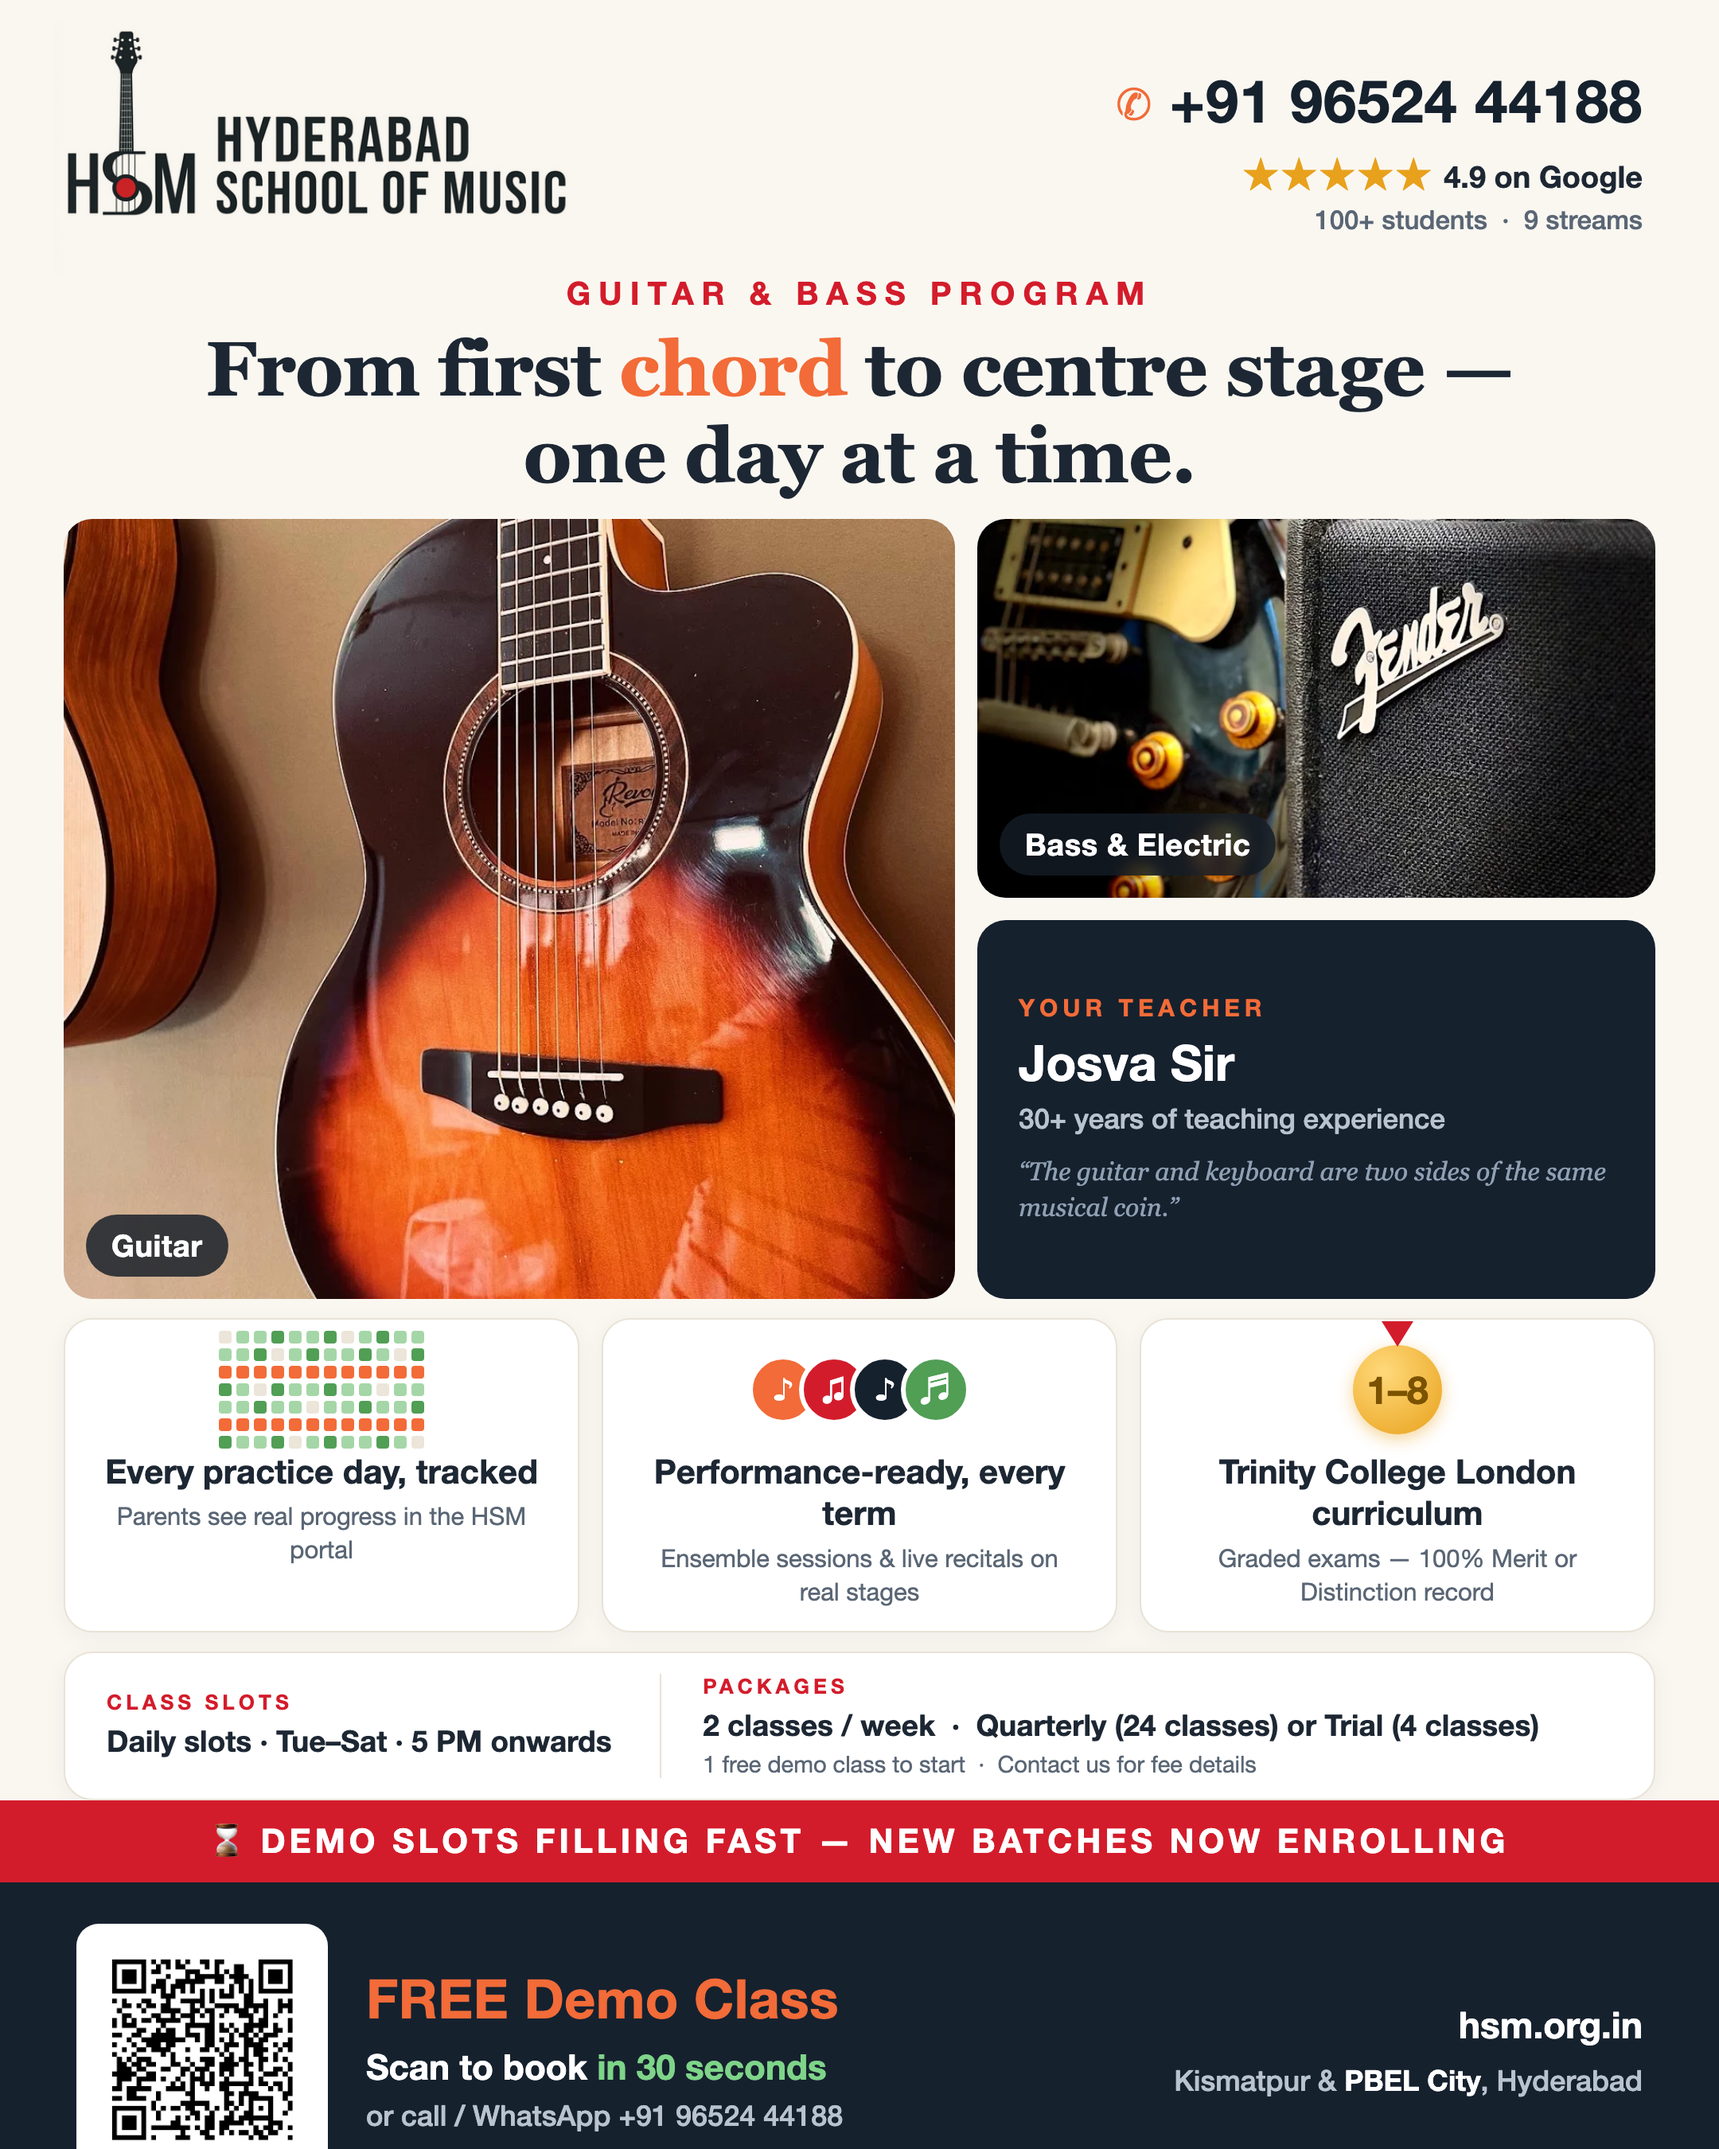
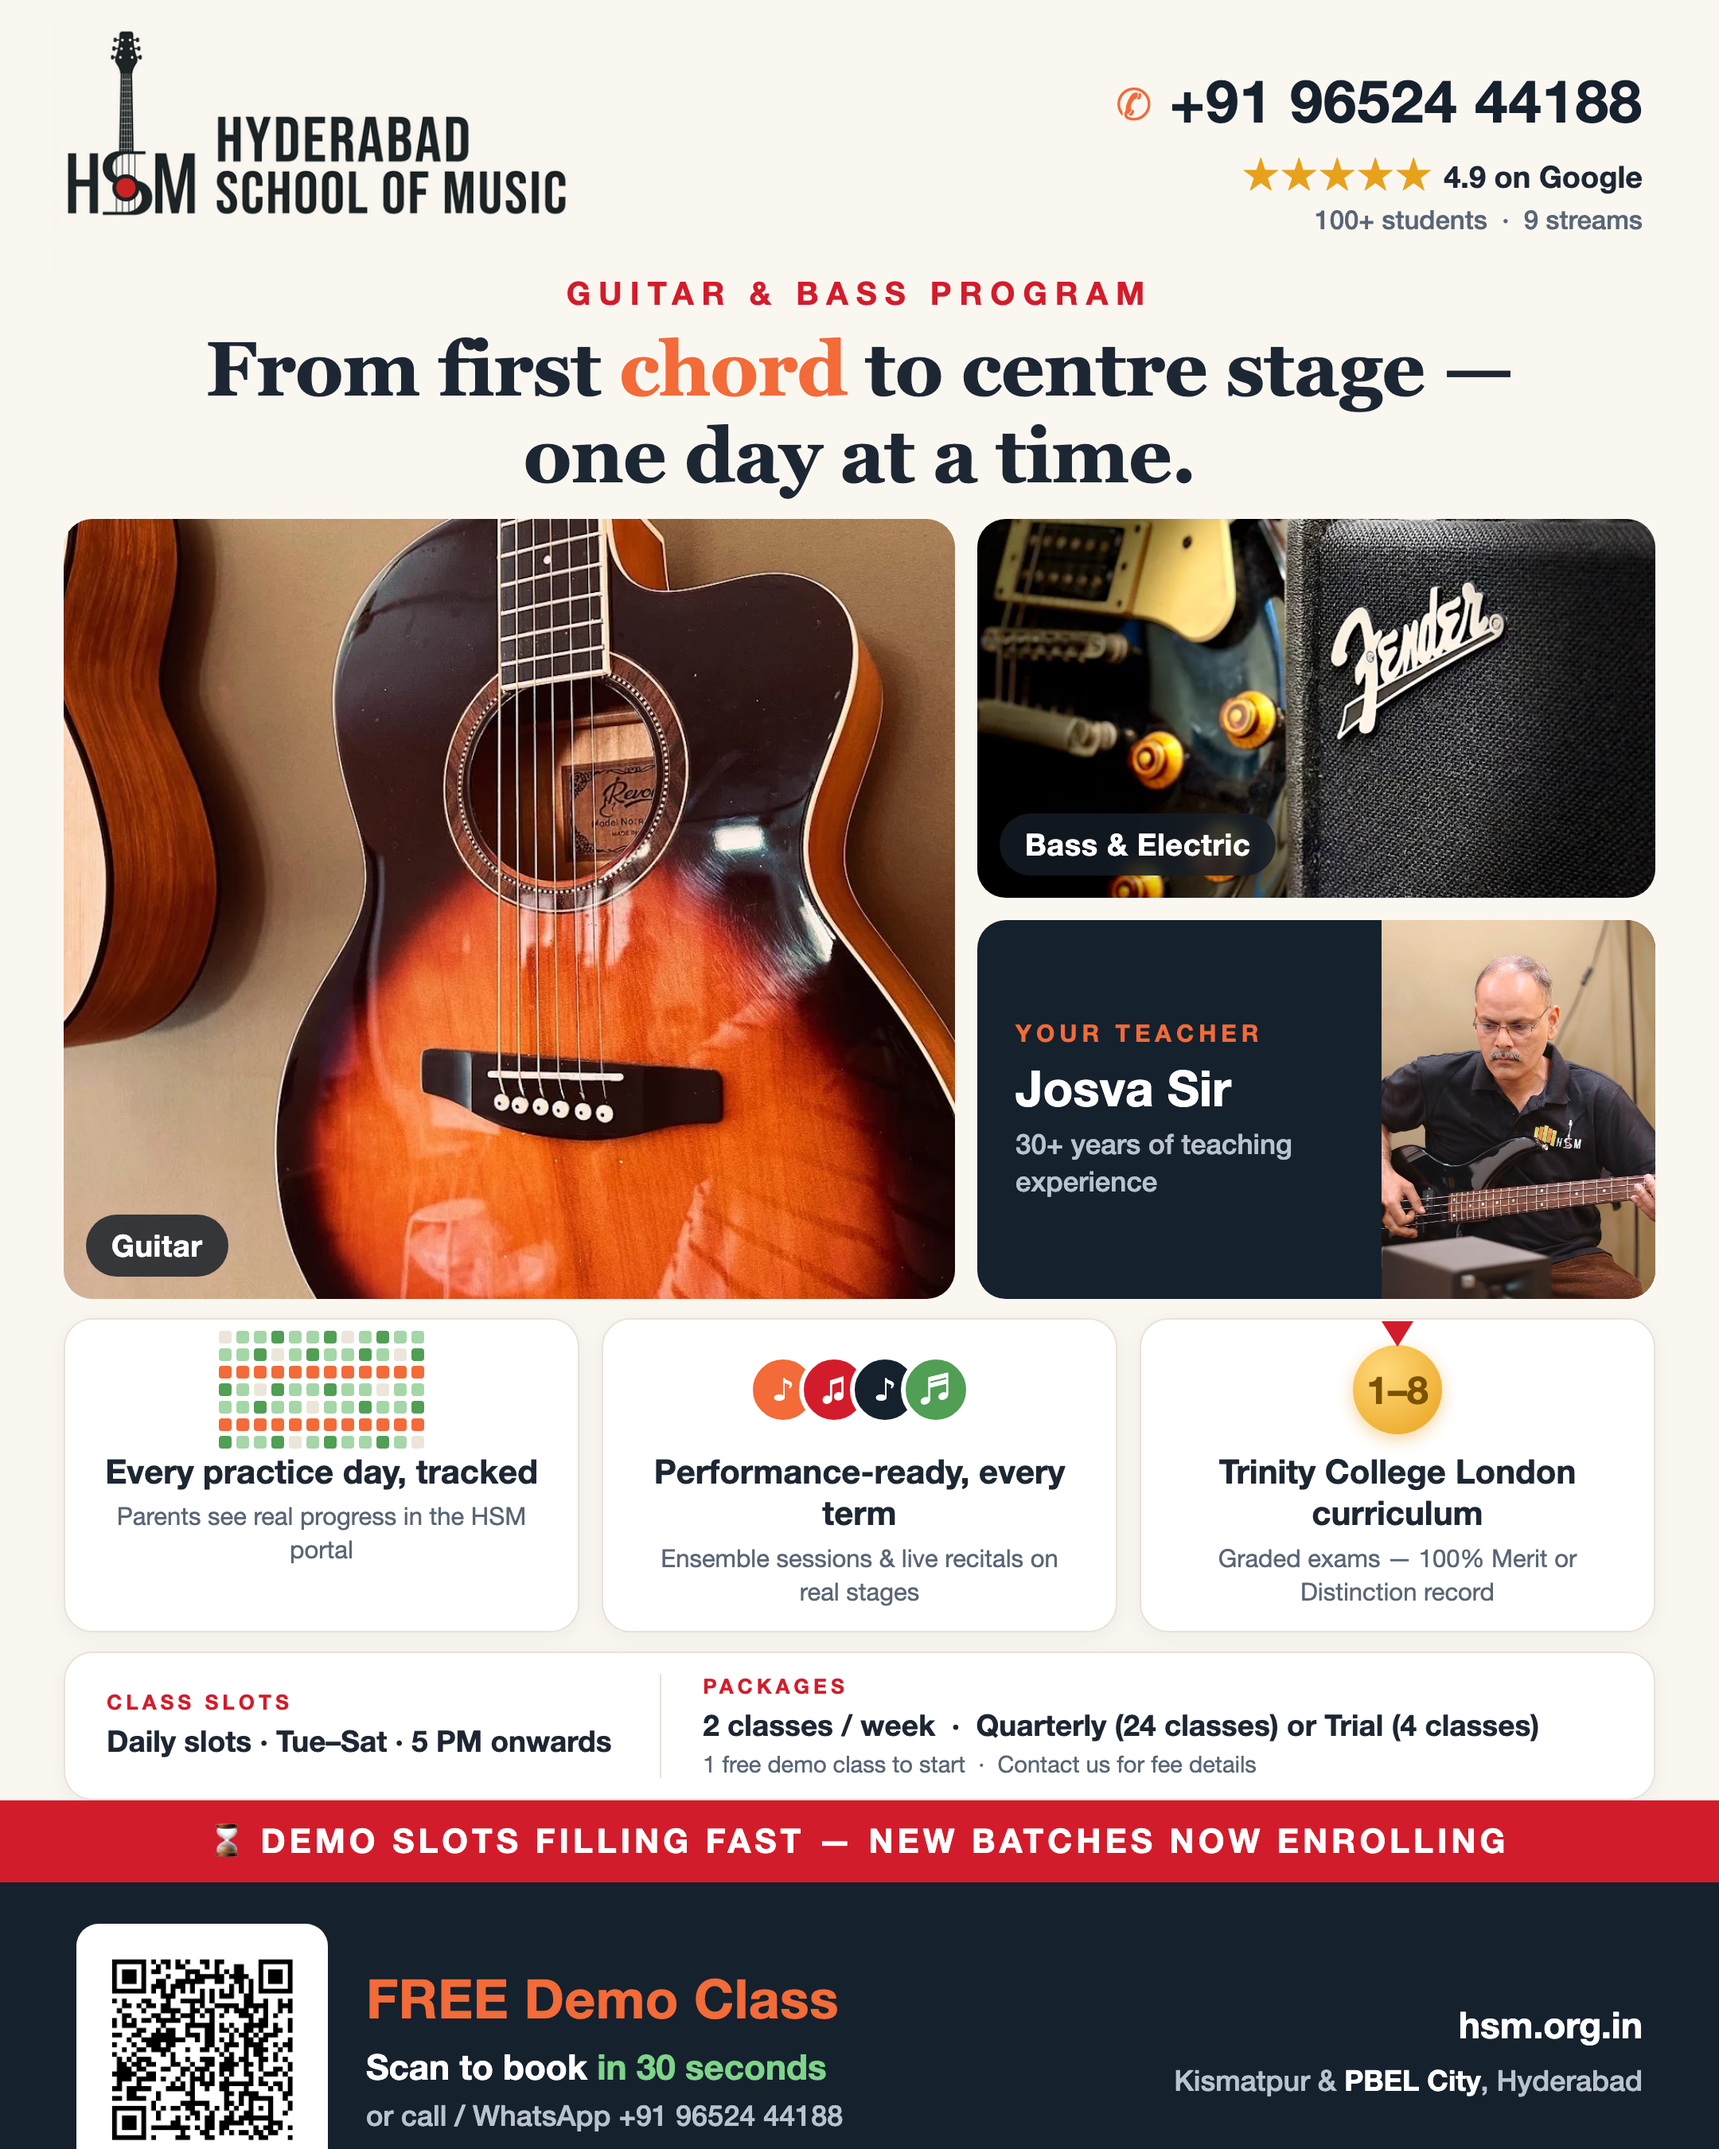
Added flyers with teacher images

Changed region(s): [[0.5894, 0.4044, 0.9616, 0.6222]]

diff --git a/frontend-landing/components/LandingPage/TeachersSection.tsx b/frontend-landing/components/LandingPage/TeachersSection.tsx
@@ -1,6 +1,7 @@
 'use client';
 import React, { useRef, useEffect, useState, useCallback } from 'react';
-import { TEACHER_PROFILES } from '@/lib/teacherProfiles';
+import Image from 'next/image';
+import { TEACHER_PROFILES, TEACHERS_SECTION_EXCLUDED_KEYS } from '@/lib/teacherProfiles';
 
 interface Teacher {
   id?: number | string;
@@ -50,7 +51,7 @@ const TeachersSection: React.FC<TeachersSectionProps> = ({ teachers }) => {
       const key = (t.id ?? t.name).toString();
       if (seen.has(key)) return false;
       seen.add(key);
-      return true;
+      return !TEACHERS_SECTION_EXCLUDED_KEYS.has(t.name.split(' ')[0].toLowerCase());
     })
     .map(t => {
       const profileKey = t.name.split(' ')[0].toLowerCase();
@@ -61,6 +62,7 @@ const TeachersSection: React.FC<TeachersSectionProps> = ({ teachers }) => {
         specialty: t.specialty || profile?.specialty || 'Instructor',
         icon: profile?.icon || '🎵',
         quote: t.quote || profile?.quote || '',
+        photo: profile?.photo,
       };
     });
 
@@ -91,9 +93,19 @@ const TeachersSection: React.FC<TeachersSectionProps> = ({ teachers }) => {
           <div className="teachers-carousel teachers-carousel--desktop" ref={gridRef}>
             {enriched.map((teacher, idx) => (
               <div className="teacher-card pop-shadow" key={teacher.id || idx}>
-                <div className="teacher-icon-badge">{teacher.icon}</div>
                 <div className="teacher-photo-wrapper">
-                  <div className="teacher-photo-placeholder">{teacher.displayName.charAt(0)}</div>
+                  {teacher.photo ? (
+                    <Image
+                      src={teacher.photo}
+                      alt={teacher.displayName}
+                      fill
+                      sizes="140px"
+                      className="teacher-photo-img"
+                    />
+                  ) : (
+                    <div className="teacher-photo-placeholder">{teacher.displayName.charAt(0)}</div>
+                  )}
+                  <span className="teacher-icon-badge">{teacher.icon}</span>
                 </div>
                 <h3 className="teacher-name">{teacher.displayName}</h3>
                 <p className="teacher-specialty text-orange">{teacher.specialty}</p>
@@ -123,9 +135,19 @@ const TeachersSection: React.FC<TeachersSectionProps> = ({ teachers }) => {
                   className={`deck-card ${cardPosition(idx)}`}
                   onClick={cardPosition(idx) === 'deck-card--active' ? next : undefined}
                 >
-                  <div className="teacher-icon-badge">{teacher.icon}</div>
                   <div className="teacher-photo-wrapper">
-                    <div className="teacher-photo-placeholder">{teacher.displayName.charAt(0)}</div>
+                    {teacher.photo ? (
+                      <Image
+                        src={teacher.photo}
+                        alt={teacher.displayName}
+                        fill
+                        sizes="160px"
+                        className="teacher-photo-img"
+                      />
+                    ) : (
+                      <div className="teacher-photo-placeholder">{teacher.displayName.charAt(0)}</div>
+                    )}
+                    <span className="teacher-icon-badge">{teacher.icon}</span>
                   </div>
                   <h3 className="teacher-name">{teacher.displayName}</h3>
                   <p className="teacher-specialty text-orange">{teacher.specialty}</p>

diff --git a/frontend-landing/lib/teacherProfiles.ts b/frontend-landing/lib/teacherProfiles.ts
@@ -3,6 +3,7 @@ export interface TeacherProfile {
   specialty: string;
   icon: string;
   quote: string;
+  photo?: string;
 }
 
 /**
@@ -16,6 +17,7 @@ export const TEACHER_PROFILES: Record<string, TeacherProfile> = {
     specialty: 'Keyboard · Guitar',
     icon: '🎸🎹',
     quote: '"The guitar and keyboard are two sides of the same musical coin — master one and the other opens up."',
+    photo: '/images/teachers/Josva_sir.jpeg',
   },
   david: {
     specialty: 'Piano',
@@ -27,18 +29,21 @@ export const TEACHER_PROFILES: Record<string, TeacherProfile> = {
     specialty: 'Piano',
     icon: '🎹',
     quote: '"Piano teaches you to listen to every voice simultaneously — it builds your musical mind from the ground up."',
+    photo: '/images/teachers/Mriganka_sir.jpeg',
   },
   subroto: {
     displayName: 'Subroto Bhaduri',
     specialty: 'Drums · Tabla · Octopad',
     icon: '🥁',
     quote: '"Rhythm is the heartbeat of all music. Before you play a note, you must first feel the pulse."',
+    photo: '/images/teachers/Subrata_sir.jpeg',
   },
   subrata: {
     displayName: 'Subroto Bhaduri',
     specialty: 'Drums · Tabla · Octopad',
     icon: '🥁',
     quote: '"Rhythm is the heartbeat of all music. Before you play a note, you must first feel the pulse."',
+    photo: '/images/teachers/Subrata_sir.jpeg',
   },
   issac: {
     displayName: 'Issac Lawrence',
@@ -56,8 +61,13 @@ export const TEACHER_PROFILES: Record<string, TeacherProfile> = {
     specialty: 'Hindustani Classical · Carnatic Classical',
     icon: '🎤',
     quote: '"Your voice is the most personal instrument you will ever own — train it and it stays with you forever."',
+    photo: '/images/teachers/Sangeeta_maam.jpeg',
   },
 };
+
+// David has left HSM and Issac Lawrence has no photo yet — hide them from the
+// photo-forward Teachers section until a replacement/photo is available.
+export const TEACHERS_SECTION_EXCLUDED_KEYS = new Set(['david', 'issac', 'lawrence']);
 
 export function getTeacherDisplayName(dbName: string): string {
   const key = dbName.split(' ')[0].toLowerCase();

diff --git a/frontend-landing/components/LandingPage.css b/frontend-landing/components/LandingPage.css
@@ -1225,15 +1225,10 @@ img {
     }
 }
 
-.teacher-icon-badge {
-    font-size: 1.5rem;
-    margin-bottom: 0.75rem;
-    letter-spacing: 0.1em;
-}
-
 .teacher-photo-wrapper {
-    width: 80px;
-    height: 80px;
+    position: relative;
+    width: 140px;
+    height: 140px;
     border-radius: 50%;
     margin-bottom: 1rem;
     overflow: hidden;
@@ -1241,12 +1236,35 @@ img {
     display: flex;
     align-items: center;
     justify-content: center;
+    border: 3px solid var(--brand-orange-light);
+    box-shadow: 0 6px 20px rgba(0, 0, 0, 0.12);
+    flex-shrink: 0;
+}
+
+.teacher-photo-img {
+    object-fit: cover;
 }
 
 .teacher-photo-placeholder {
-    font-size: 2rem;
+    font-size: 3rem;
     color: var(--brand-orange);
     font-weight: 700;
+}
+
+.teacher-icon-badge {
+    position: absolute;
+    bottom: -2px;
+    right: -2px;
+    font-size: 1.1rem;
+    letter-spacing: 0.05em;
+    background: var(--bg-tertiary);
+    border-radius: 50%;
+    width: 34px;
+    height: 34px;
+    display: flex;
+    align-items: center;
+    justify-content: center;
+    box-shadow: 0 2px 6px rgba(0, 0, 0, 0.15);
 }
 
 .teacher-name {
